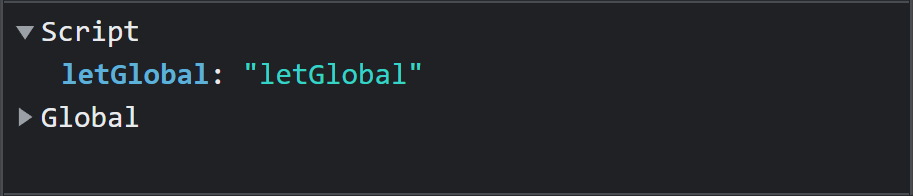
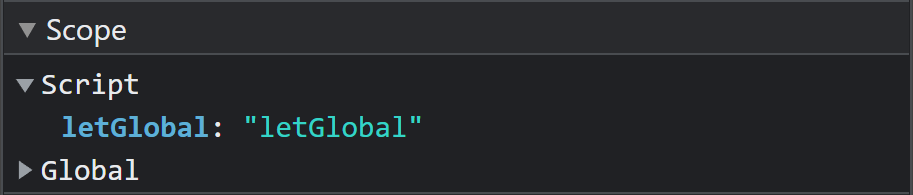
var, let, const 변수 post

diff --git a/_includes/recent_articles.html b/_includes/recent_articles.html
@@ -15,27 +15,33 @@
       <a href="{{post.url}}" class="article-card-link">
         <div id="article-container">
           <div id="article-img">
-            {% if post.author %}
-              {% assign author = post.author %}
-              {% if author %}
-               {% assign author_data = site.data.authors[author] %}
-               <img
-                src="{{site.url}}{{site.baseurl}}/assets/img/authors/{{author_data.avatar}}"
-                width="50px"
-                height="50px"
-             />
-              {% endif %}
-            {% endif %}
-
+            {% if post.author %} {% assign author = post.author %} {% if author %} {% assign
+            author_data = site.data.authors[author] %}
+            <img
+              src="{{site.url}}{{site.baseurl}}/assets/img/authors/{{author_data.avatar}}"
+              width="50px"
+              height="50px"
+            />
+            {% endif %} {% endif %}
           </div>
           <div id="article-link">
-              <p class="recent-article-link">{{post.title}} <span style="color: #ccc; font-size: 15px;"> - <i><time datetime="{{ post.date }}" itemprop="datePublished">{{ post.date | date: "%b %-d, %Y" }}</time></i></span></p>
-            </div>
-            <div id="article-alert">
+            <p class="recent-article-link">
+              {{post.title}}
+              <span style="color: #ccc; font-size: 15px">
+                -
+                <i
+                  ><time datetime="{{ post.date }}" itemprop="datePublished"
+                    >{{ post.date | date: "%b %-d, %Y" }}</time
+                  ></i
+                ></span
+              >
+            </p>
+          </div>
+          <div id="article-alert">
             {% for cat in post.category limit:1 %}
-             <button class="btn btn-sm btn-dark">{{cat}}</button>
+            <button class="btn btn-sm btn-dark">{{cat}}</button>
             {% endfor %}
-            </div>
+          </div>
         </div>
       </a>
     </li>

diff --git a/_includes/coding_activity.html b/_includes/coding_activity.html
@@ -1,8 +1,7 @@
 <!-- Wakatime ( Replace with your own wakatime embed config at https://wakatime.com )-->
 
 <!-- Languages  -->
-<!-- <figure><embed src="https://wakatime.com/share/@sujaykundu777/e4c2a44e-390d-41f3-a4c8-b23b05fbec30.svg"></embed></figure> -->
-<figure><embed src="https://wakatime.com/share/@Jack_Koh/c41da976-20d2-4b43-ab1b-4a5daab4dc72.svg"></embed></figure>
+<figure><embed src="https://wakatime.com/share/@Jack_Koh/72c5f26b-c3d8-4fc1-ade7-2ac1bad375df.svg"></embed></figure>
 
 <!-- Hours Coded -->
-<figure><embed src="https://wakatime.com/share/@Jack_Koh/6eb8bec6-1a62-4fa0-8539-78c1ffd647cf.svg"></embed></figure>
+<figure><embed src="https://wakatime.com/share/@Jack_Koh/ddda0f07-316b-4f17-b25b-557462fb30d0.svg"></embed></figure>

diff --git a/_posts/javascript/2021-12-16-es6l.md b/_posts/javascript/2021-12-16-es6l.md
@@ -1,11 +1,11 @@
 ---
 layout: post
-title: "let 변수와 const 변수"
-summary: "ES6 let 과 const에 대한 이해"
+title: 'var, let, const'
+summary: 'ES6 let 과 const에 대한 이해'
 author: Jack
-date: "2021-12-16 11:58:47 GMT+0900"
-category: ["javascript"]
-tags: javascript
+date: '2021-12-16 11:58:47 GMT+0900'
+category: ['JavaScript']
+tags: JavaScript
 thumbnail: /assets/img/posts/code.jpg
 keywords: Jack, developer, es6, javascript, frontend, variables
 usemathjax: false
@@ -15,35 +15,149 @@ permalink: /blog/es6-let-const/
 ## let 변수와 const 변수에 대해 알아보자.
 
 우선 es6부터 새로 도입된 `let`과 `const`에 대해 이해하기 앞서 이전에 사용되던 `var`와 변수의 범위가 무엇인지 이해할 필요가 있다.  
-크게 변수는 `local 변수`와 `global 변수`로 구분이 되는데 이렇게 구분이 되는 이유는 기능과 목적이 다르기 때문이다.
+크게 var로 선언된 변수는 `local 변수`와 `global 변수`로 구분이 되는데 이렇게 구분이 되는 이유는 기능과 목적이 다르기 때문이다.
 
-#### 1. global 변수
+#### 1. Global 변수
 
 - 다른 js파일에서 변수값 공유 및 공통 변수 개념으로 사용.
 - 의도는 좋으나 처리속도가 떨어지는 문제가 있음.
 
-#### 2. local 변수
-
-- 함수 안에 선언된 변수는 그 함수에 대해서 지역(local)이 된다.
-- 빠르게 식별자를 확인하기 위해 가까운 스코프의 변수를 사용하려는것.
-
 기본적으로 브라우저에서 global은 `window 객체`를 지칭한다. 그렇기 때문에 global 변수로 사용되는 변수들은 window 객체의 프로퍼티로 등록되게 되어있다. global 변수를 생성하는 방법은 선언되지 않은 변수에 값을 할당하거나 global 범위에서 var 를 이용해서 변수를 선언하는방법이 있다. 아래의 예시를 통해 확인해보자.
 
 ```javascript
-var varGlobal = "varGlobal";
-varGlobal = "varGlobal";
+var varGlobal = 'varGlobal';
+// 또는 varGlobal = 'varGlobal';
 ```
 
 ![Image Alt variable1]({{site.url}}/assets/img/posts/javascript/variable/variable1.png){:class="img-responsive"}
 
 전역 변수를 설정하게되면 위와같이 Global scope에 변수가 저장되게되고 window 객체를 참조하여 해당 변수의 값을 불러올수 있다.
 하지만 `let 변수` 같은 경우는 Global 위치에서 변수를 선언한다고 해도 `window 객체`에 설정되지 않는다.
-let 변수는 블록범위 내에서 작성해야하지만 전역위치에서는 블록이 없으므로 javascript 엔진이 블록은 만들고 이를 스코프로 사용하여 설정하는 개념이다.
+let 변수는 블록범위 내에서 작성해야하지만 전역위치에서는 블록이 없으므로 javascript 엔진이 블록은 만들고 이를 스코프로 사용하여 설정하는 개념이다. 아래의 예시를 보자.
 
 ```javascript
-let letGlobal = "letGlobal";
+let letGlobal = 'letGlobal';
 ```
 
-![Image Alt variable1]({{site.url}}/assets/img/posts/javascript/variable/variable2.png){:class="img-responsive"}
+![Image Alt variable2]({{site.url}}/assets/img/posts/javascript/variable/variable2.png){:class="img-responsive"}
 
-위 이미지의 Script는 하나의 블록 개념으로 script가 작성된 모든파일에서 공유하고 이를 글로벌 변수처럼 사용할수 있다.
+위 이미지의 Script는 하나의 블록 개념으로 script가 작성된 모든파일에서 공유하고 이를 글로벌 변수처럼 사용할수 있다. 블록에 대해서는 3번째 절에서 더 자세히 다루겠다.
+
+#### 2. Local 변수(함수 레벨 스코프)
+
+- 함수 안에 선언된 변수는 그 함수에 대해서 지역(local)이 된다.
+- 빠르게 식별자를 확인하기 위해 가까운 스코프의 변수를 사용하려는것.
+
+local 변수는 함수 내부에 선언된 변수들을 일컫는 말이다. local 블록 내부에 선언된 변수들은 외부에서 접근이 불가능한 특징이 있다. 아래의 예시를 보자.
+
+```javascript
+var name = 'Jack';
+function localScope() {
+  var name = 'koh';
+}
+localScope();
+console.log(name);
+// 결과: Jack
+```
+
+![Image Alt variable3]({{site.url}}/assets/img/posts/javascript/variable/variable3.png){:class="img-responsive"}
+
+위의 이미지와 같이 선언된 두 변수는 서로 다른 범위에서 적용된 변수이고 출력하는부분이 Global Scope 에서 실행되기 때문에
+가장 상단에 선언된 변수의 값인 Jack이 출력되게 된다. 물론 선언된 변수의 Scope의 범위에 따라 내부 Scope는 외부의 Scope를
+참조할수 있고 외부 Scope에서는 내부 Scope를 참조할수 없다. 관련 내용은 Closure 에 관련한 포스트에서 상세히 설명하겠다.
+
+#### 3. Block 변수(블록 레벨 스코프)
+
+전역변수를 설정했을때 두 변수의 차이는 Global scope에 설정이 되거나 Script 블록에 설정이 된다.
+let 변수가 Script라는 블록에 설정되는 이유는 let 으로 선언한 변수는 `블록 스코프`를 가진 변수라서
+Block Scope 내부에 변수가 저장되어야하는데 전역에 위치한 let 변수는 블록이 존재하지 않기때문에 Script 블록내부에 생성된다.
+여기서 Block이란 무엇일까? 자바스크립트의 `{}` 를 말한다. 흔히 `if문`이나 `for문`에 관련해서 사용된다.
+아래의 코드를 보며 var와 let의 차이를 이해하자.
+
+```javascript
+// var 를 사용했을때
+var name = 'Jack';
+if (name) {
+  var name = 'Koh';
+  console.log('in :', name);
+}
+console.log('out :', name);
+// 결과: in : Koh, out : Koh
+
+// let 을 사용했을때
+let name = 'Jack';
+if (name) {
+  let name = 'Koh';
+  console.log('in :', name);
+}
+console.log('out :', name);
+// 결과: in : Koh, out : Jack
+```
+
+이러한 결과가 출력되는 이유는 let 변수는 엔진이 스크립트를 읽으면서 블록을 만나게 되면 해당하는 블록 스코프를 만들고
+내부에 변수를 설정하게 된다. 따라서 let 변수는 자신이 속한 block 내부에서 사용될수 있으며 외부에서는 인식할수 없다.
+그러므로 위에서 선언된 name이라는 변수는 같은 이름을 사용하지만 다른범위를 가진 변수로서 서로 다른 변수다.
+
+var 변수는 블록범위를 가지지 않는다면 위의 코드에서 var name 은 같은 변수로서 인식이 된다는것인데 어떻게 두번 선언이 가능할까?
+이 현상은 `호이스팅`과 관련되어 나타나는 현상이다. 블록스코프가 나온 이유도 실행문맥에 따라 호이스팅이 일어나는 var 키워드의 문제와 관련이 깊다.
+관련 내용을 다루려면 포스트가 길어지기때문에 호이스팅에 대해 따로 다루도록 하겠다.
+
+이어서 for문을 사용했을때 발생되는 현상에 대해서도 설명해 보겠다.
+
+```javascript
+// var 를 사용했을때
+const arr = new Array(5); // length 5의 배열생성
+for (var i = 0; i < arr.length; i++) {
+  // 배열의 인덱스마다 자신의 인덱스를 출력하는 함수 할당
+  arr[i] = function () {
+    console.log(i);
+  };
+}
+// 배열에 할당된 모든 함수 실행
+arr.forEach((el) => el());
+console.log('i :', i);
+// 결과: 5, 5, 5, 5, 5
+//       i: 5
+```
+
+```javascript
+// let 을 사용했을때
+const arr = new Array(5); // length 5의 배열생성
+for (let i = 0; i < arr.length; i++) {
+  // 배열의 인덱스마다 자신의 인덱스를 출력하는 함수 할당
+  arr[i] = function () {
+    console.log(i);
+  };
+}
+// 배열에 할당된 모든 함수 실행
+arr.forEach((el) => el());
+console.log('i :', i);
+// 결과: 0, 1, 2, 3, 4
+//       Uncaught ReferenceError: i is not defined
+```
+
+위의 설명을 이해했다면 이러한 현상이 발생되는 이유는 이해가 됬을것이다.
+이해가 되지 않았다면 직접 코드를 작성하며 연습해보는것이 좋다.
+
+#### 4. const
+
+- 값을 바꿀수 없는 변수 선언.
+- 변수를 선언하면 초기값이 필수로 들어가야한다 (initializer).
+- 대문자 사용이 관례(큰 의미는 없다).
+- Object의 프로퍼티 값은 변경이 가능하다.
+- 배열의 엘리먼트 값은 변경이 가능하다.
+
+const 변수는 지금껏 설명했던 let의 특성을 모두 가지고 있다. 차이점이 있다면 변수가 아닌 상수로 사용되며
+한번 할당한 값들은 변경할수 없는 변수이다. 변수를 사용하기 위해서는 초기값을 필수로 작성해야하며 참조자료형의
+속성들에 대해서는 변경이 가능하다.
+
+```javascript
+const name = 'Jack';
+name = 'Jack'; // 변경 불가능
+
+const name = [1, 2, 3, 4, 5];
+name[0] = 2; // 변경 가능
+
+const name = { fistName: 'Jack', lastName: 'koh' };
+name.lastName = 'kim'; // 변경 가능
+```

diff --git a/_authors/Jack.md b/_authors/Jack.md
@@ -1,0 +1,33 @@
+---
+name: Jack koh
+username: jack-koh
+bio: '안녕하세요 프론트엔드 개발자 고현영입니다.'
+site: https://github.com/Jack-koh
+avatar: Jack.png
+email: rhgusdud09@naver.com
+social:
+  - title: 'github'
+    url: 'https://github.com/jack-koh'
+  - title: 'facebook'
+    url: 'https://www.facebook.com/hyunyoung.ko.50'
+  - title: 'instagram'
+    url: 'https://instagram.com/hyeonyoungkoh'
+  # - title: 'linkedin'
+  #   url: 'https://www.linkedin.com/in/johndoe'
+  # - title: 'youtube'
+  #   url: 'https://www.youtube.com/channel/UCSfLBFFfNU9r6ihfei6VeJw'
+
+  # - title: 'twitter'
+  #   url: 'https://www.twitter.com/johndoe'
+  # - title: 'behance'
+  #   url: 'https://behance.com/johndoe'
+
+  # - title: 'medium'
+  #   url: 'https://medium.com/johndoe'
+  # - title: 'telegram'
+  #   url: 'https://telegram.com/johndoe'
+  # - title: 'dribbble'
+  #   url: 'https://dribbble.com/johndoe'
+  # - title: 'flickr'
+  #   url: 'https://flickr.com/johndoe'
+---

diff --git a/categories/JavaScript.md b/categories/JavaScript.md
@@ -1,0 +1,13 @@
+---
+layout: page
+title: JavaScript
+permalink: /blog/categories/JavaScript/
+---
+
+<h5> Posts by Category : {{ page.title }} </h5>
+
+<div class="card">
+{% for post in site.categories.JavaScript %}
+ <li class="category-posts"><span>{{ post.date | date_to_string }}</span> &nbsp; <a href="{{ post.url }}">{{ post.title }}</a></li>
+{% endfor %}
+</div>
